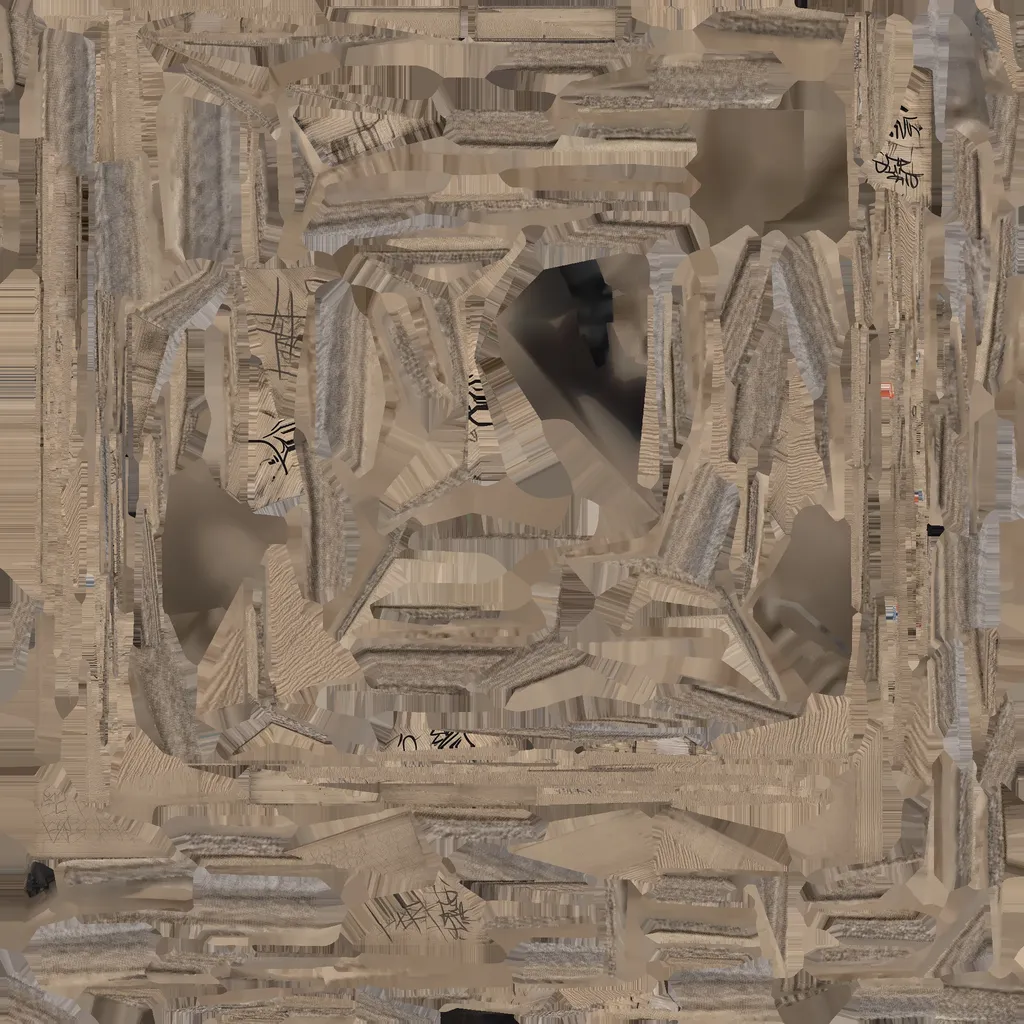
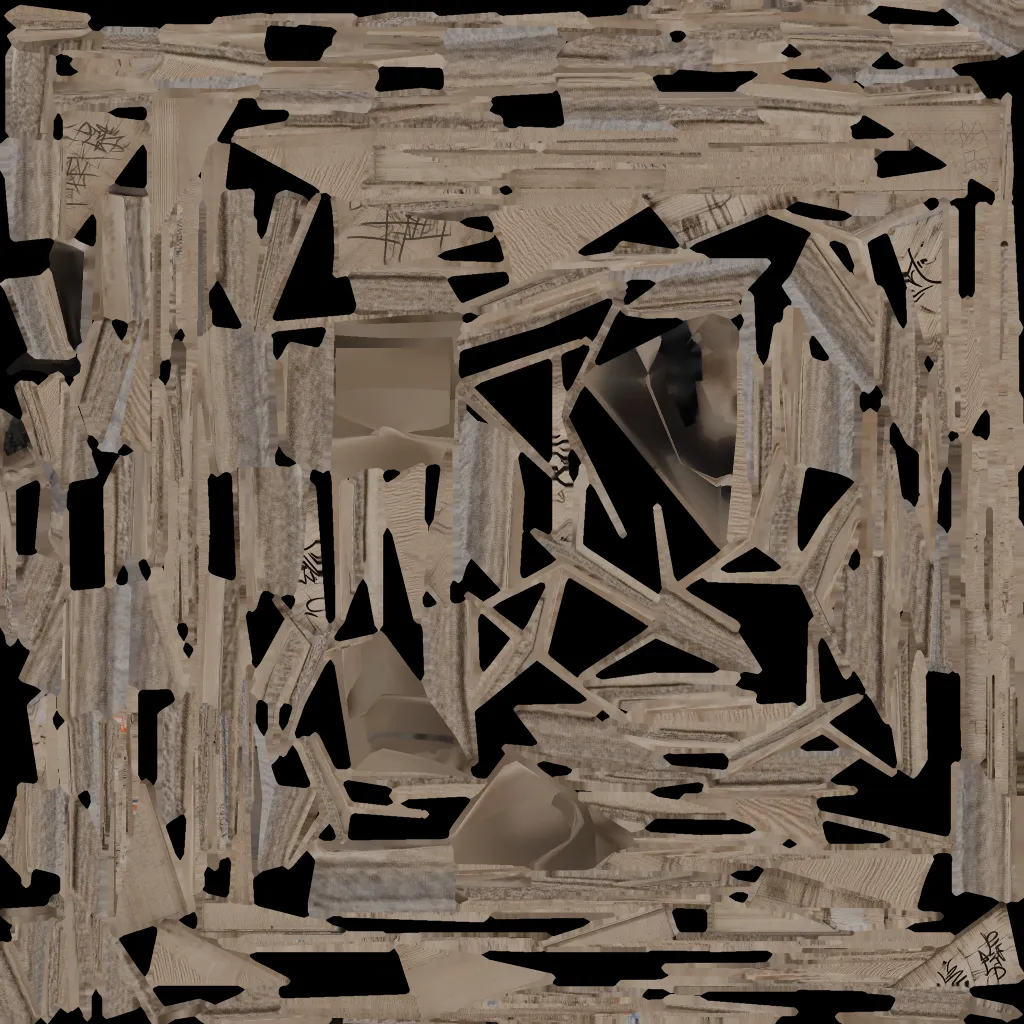
Quarter-pipe graffiti variants rebaked into the shared mesh's UV layout (Blender headless, selected-to-active)
The seven Meshy ramps share triangles but Meshy unwrapped each one again, so a texture swapped onto the one mesh only fit its own layout (owner: they share mesh vertices, not UVs). tools/ramp-uv-bake.py bakes each variant's base colour onto the v1 mesh's UVs; v2..v7 replaced. Checked in the browser pane: a row of all seven, text legible and aligned on each.

diff --git a/tools/ramp-uv-bake.py b/tools/ramp-uv-bake.py
@@ -1,0 +1,81 @@
+# ramp-uv-bake.py — Blender, headless: bake each quarter-pipe variant's base
+# colour into the UV layout of the ONE ramp mesh the game uses (variant 1).
+# The seven Meshy exports share the same triangles, but Meshy unwrapped each
+# one again, so a texture swapped onto the shared mesh only fits its own
+# layout (owner, 2026-09-03: "they just share mesh vertex, not UV").
+# "Selected to active" bakes colour from the variant mesh (selected) onto the
+# base mesh (active); the two surfaces coincide, so every texel lands where
+# it belongs, and the bake margin fills the seams.
+#
+# Usage:
+#   blender -b --python tools/ramp-uv-bake.py -- <base.glb> <out_dir> <variant2.glb> [variant3.glb …]
+# writes <out_dir>/v2.webp, v3.webp … (1024², quality 80 — the game's format)
+import bpy, os, sys
+
+argv = sys.argv[sys.argv.index('--') + 1:]
+base_path, out_dir, variants = argv[0], argv[1], argv[2:]
+BAKE_SIZE, OUT_SIZE = 2048, 1024
+
+
+def reset():
+    bpy.ops.wm.read_factory_settings(use_empty=True)
+
+
+def import_mesh(path):
+    before = {o.name for o in bpy.data.objects}
+    bpy.ops.import_scene.gltf(filepath=path)
+    new = [o for o in bpy.data.objects if o.name not in before and o.type == 'MESH']
+    if len(new) != 1:
+        raise SystemExit(f'{path}: expected one mesh, got {len(new)}')
+    return new[0]
+
+
+for i, vpath in enumerate(variants):
+    k = i + 2
+    reset()
+    scene = bpy.context.scene
+    base = import_mesh(base_path)
+    var = import_mesh(vpath)
+
+    # the bake target: a fresh image on the base mesh's material, its node active
+    img = bpy.data.images.new(f'bake_v{k}', BAKE_SIZE, BAKE_SIZE, alpha=False)
+    mat = base.active_material
+    if mat is None or not mat.use_nodes:
+        raise SystemExit('the base mesh has no node material')
+    nt = mat.node_tree
+    tex = nt.nodes.new('ShaderNodeTexImage')
+    tex.image = img
+    for n in nt.nodes:
+        n.select = False
+    tex.select = True
+    nt.nodes.active = tex
+
+    # colour only (no light), from the variant onto the base
+    scene.render.engine = 'CYCLES'
+    scene.cycles.device = 'CPU'
+    scene.cycles.samples = 8
+    scene.cycles.bake_type = 'DIFFUSE'
+    b = scene.render.bake
+    b.use_pass_direct = False
+    b.use_pass_indirect = False
+    b.use_pass_color = True
+    b.use_selected_to_active = True
+    b.use_cage = False
+    b.cage_extrusion = 0.01
+    b.max_ray_distance = 0.02
+    b.margin = 16
+    b.target = 'IMAGE_TEXTURES'
+
+    bpy.ops.object.select_all(action='DESELECT')
+    var.select_set(True)
+    base.select_set(True)
+    bpy.context.view_layer.objects.active = base
+    bpy.ops.object.bake(type='DIFFUSE')
+
+    img.scale(OUT_SIZE, OUT_SIZE)
+    scene.render.image_settings.file_format = 'WEBP'
+    scene.render.image_settings.quality = 80
+    scene.render.image_settings.color_mode = 'RGB'
+    out = os.path.join(out_dir, f'v{k}.webp')
+    img.save_render(out, scene=scene)
+    print(f'[ramp-uv-bake] v{k} <- {os.path.basename(vpath)} -> {out} ({os.path.getsize(out) // 1024} KB)')
